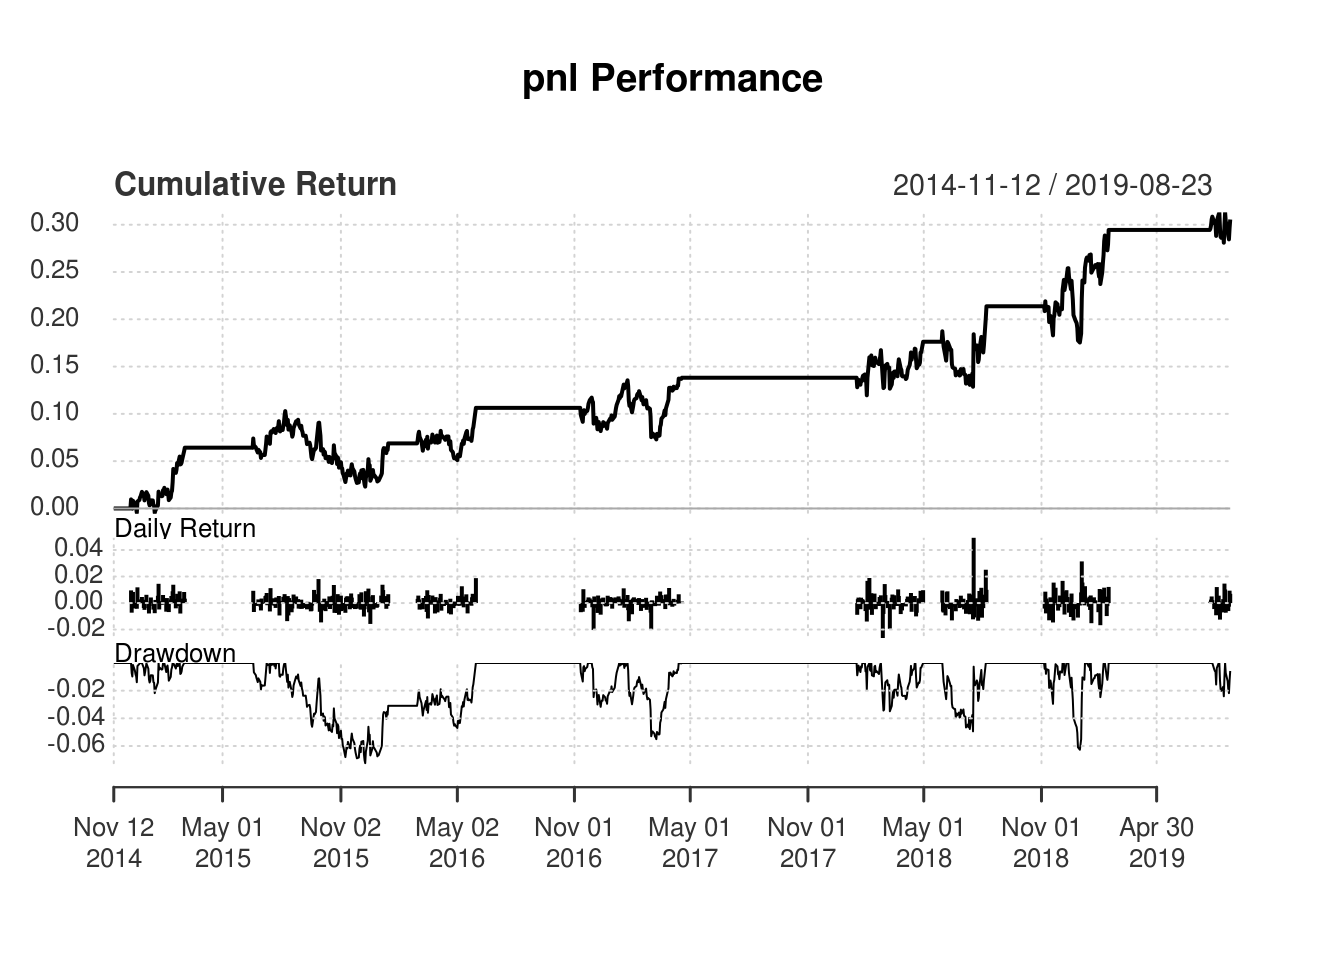
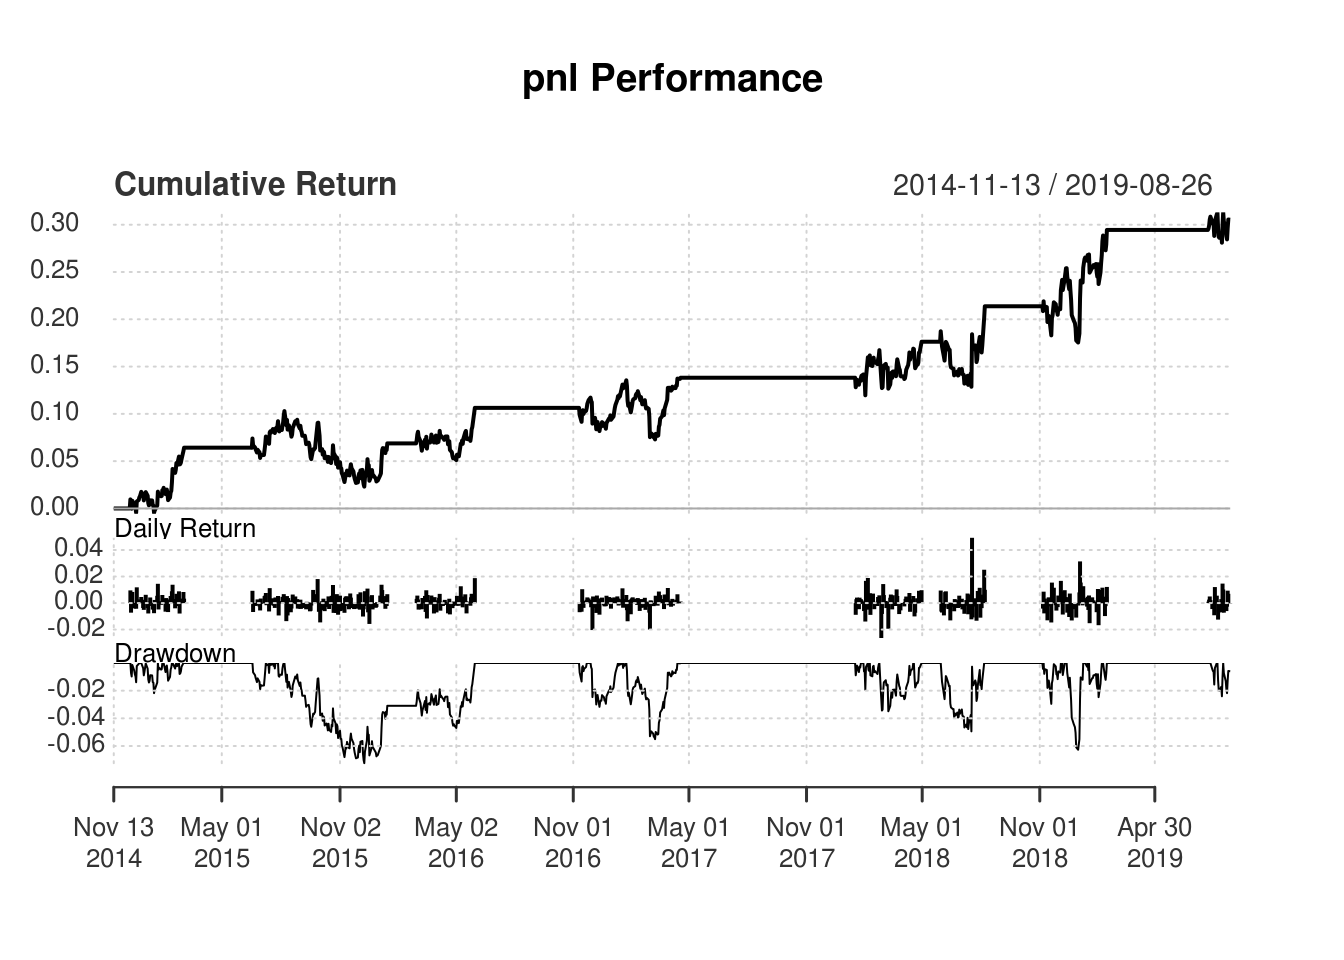
Updated long short strategy

diff --git a/post/market_neutral/index.html b/post/market_neutral/index.html
@@ -380,7 +380,7 @@
 </div>
 <div id="disclosure" class="section level3">
 <h3>Disclosure</h3>
-<p>I may execute this strategy in the near term.</p>
+<p>I executed a long (BRK-B) short (SnP500) strategy on 26-August with approximately $8000 ob both positions. Target to close when ratio touches moving average.</p>
 </div>
 </div>
 <div id="running-packages" class="section level2">
@@ -564,7 +564,7 @@ res = lf_bollinger_pair_trading(stock1, stock2, start_date, end_date, prop_res, 
 <pre><code>##                              pnl
 ## Annualized Return         0.0574
 ## Annualized Std Dev        0.0736
-## Annualized Sharpe (Rf=0%) 0.7799</code></pre>
+## Annualized Sharpe (Rf=0%) 0.7793</code></pre>
 </div>
 
       </div>
